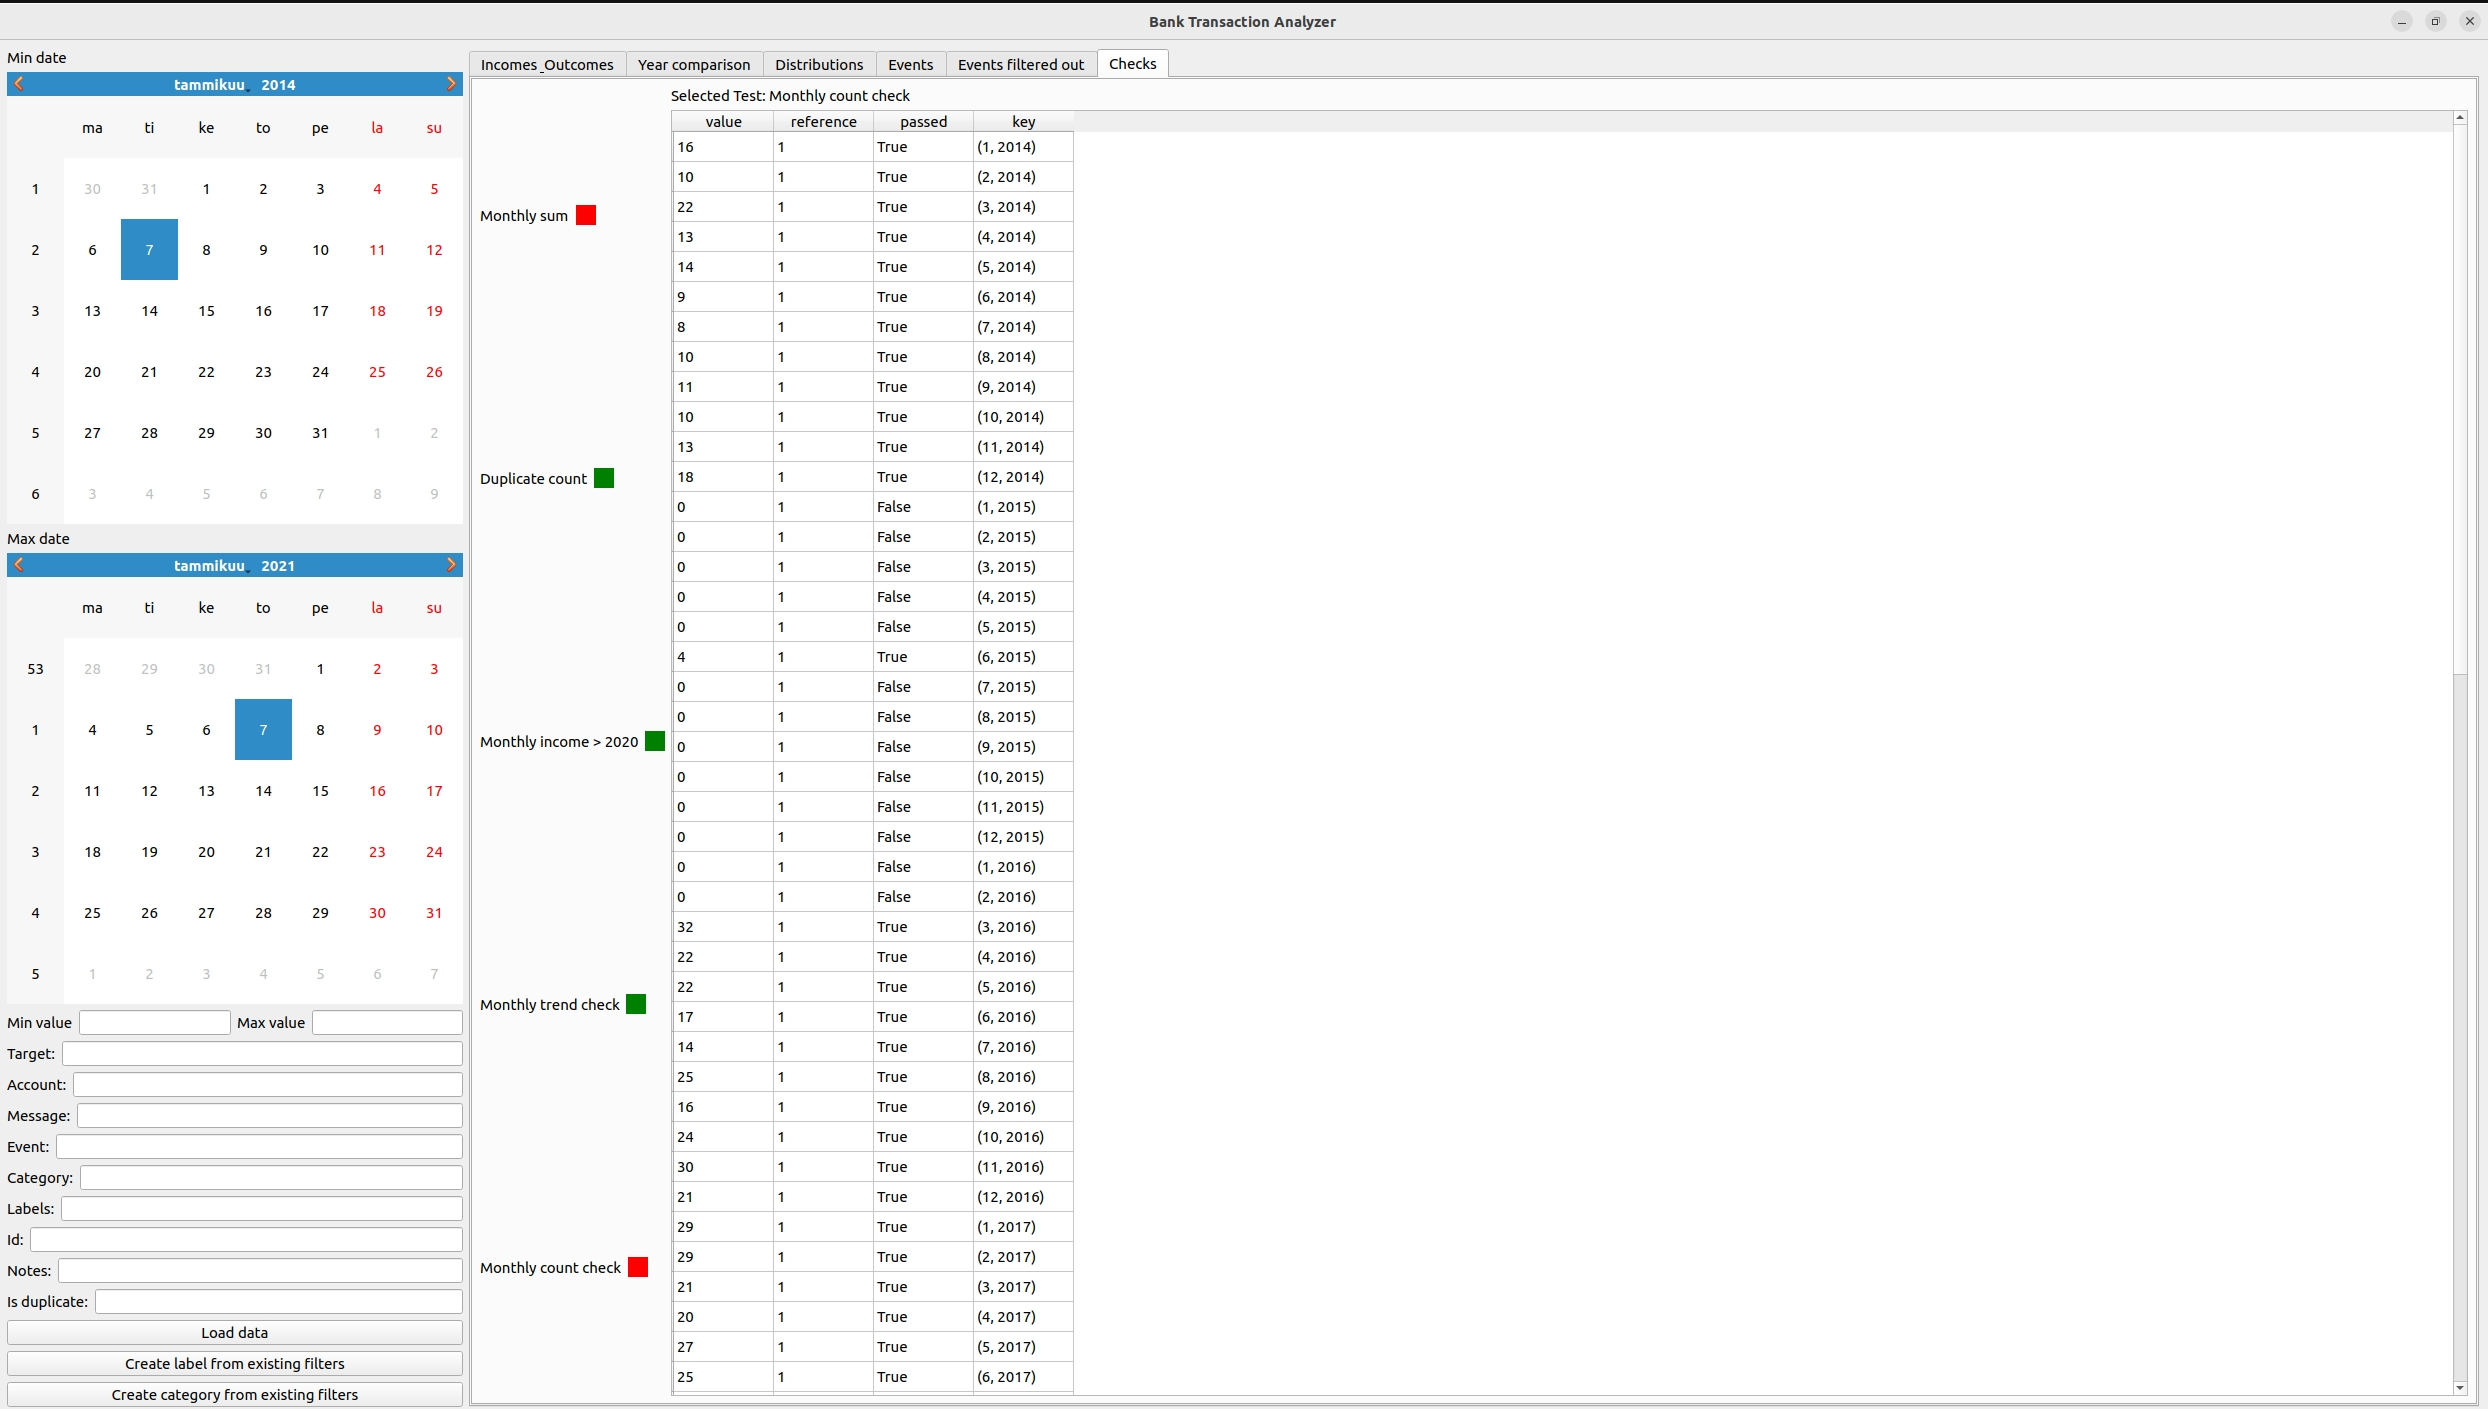
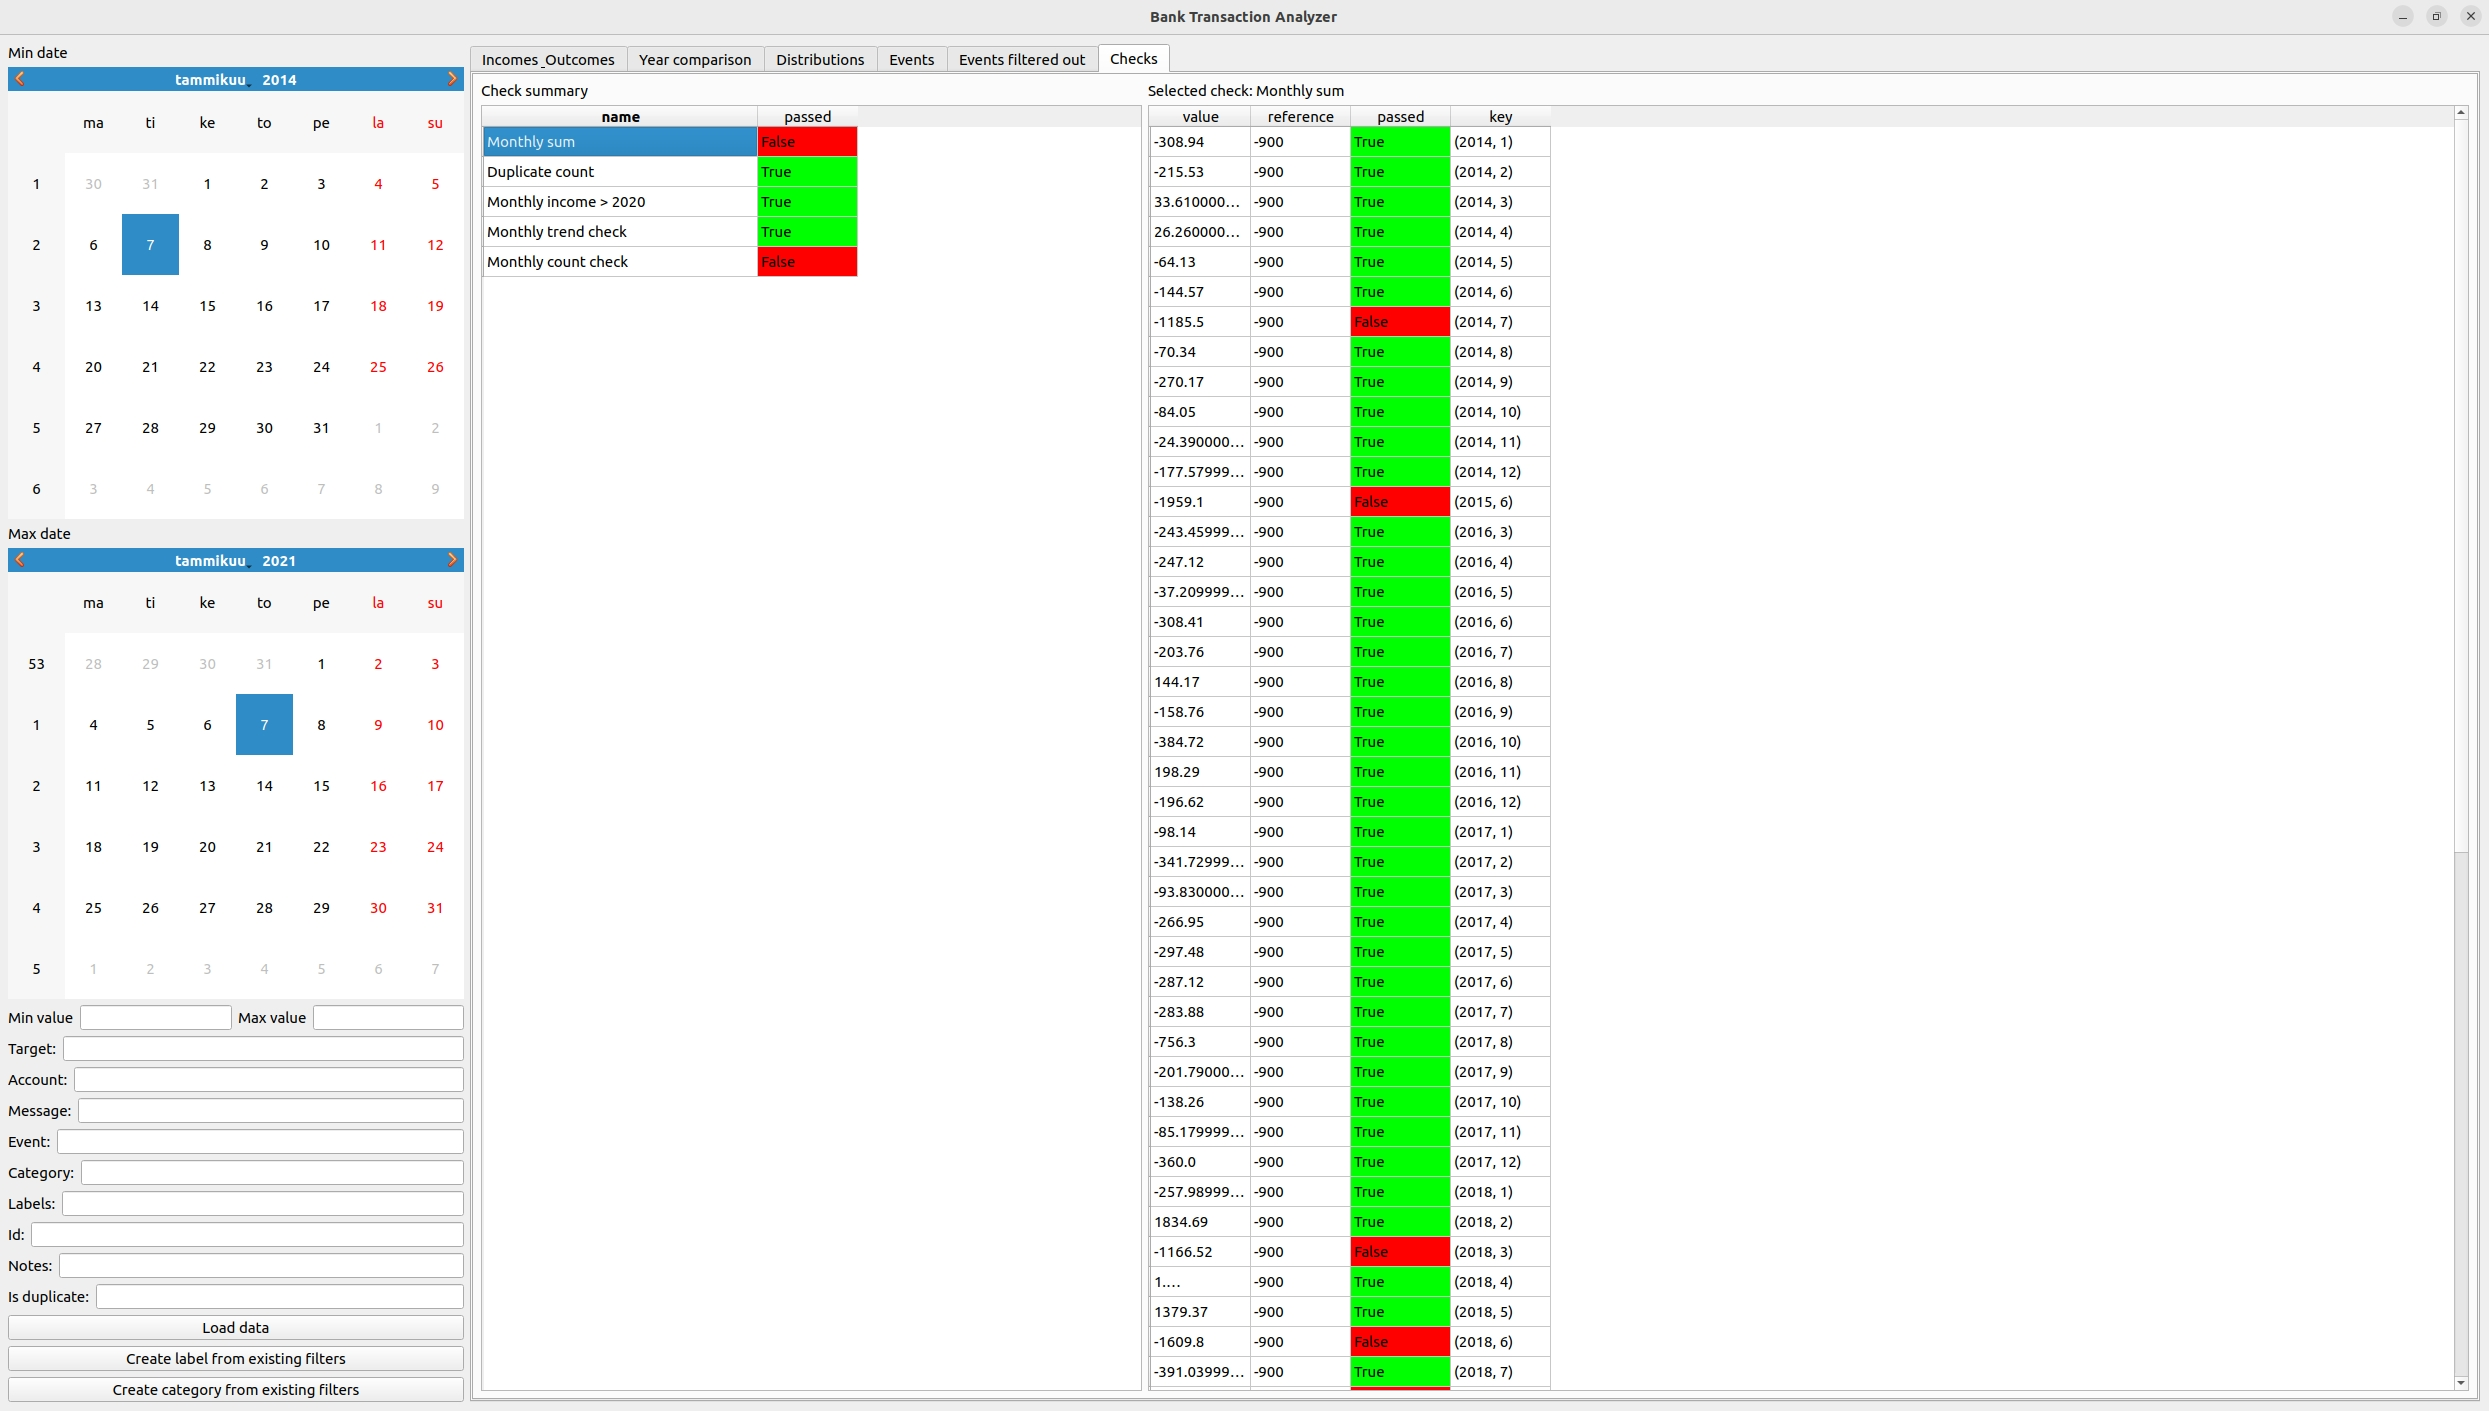
Update readme and checks screenshot

diff --git a/README.md b/README.md
@@ -1,9 +1,9 @@
 # Bank Transaction Analyzer
 
-Bank Transaction Analyzer provides versatile and flexible analysis and visualization of bank transaction data.
+Bank Transaction Analyzer provides configurable analysis and visualization of bank transaction data.
 
 By default, the analyzer works with Nordea internet bank data (both old and new format) but can be customized to work 
-with other banks and data formats too. User-defined configuration is used to adapt analysis of the data. 
+with other banks and data formats too. User-defined configuration is used to configure analysis of the data. 
 
 # Before usage
 
@@ -28,7 +28,7 @@ For Ubuntu users there is installation script: ```./install.sh```.
 * Add free form notes to events in Events tab; these are saved automatically.
 
 **Checks**
-* Left click check name to see more detailed check results in table format.  
+* Left click check name (left table) to see more detailed check results in table format (right table).  
 
 Note:
 Some simulated test data is also provided (in test_data folder). This data can be used to test application.
